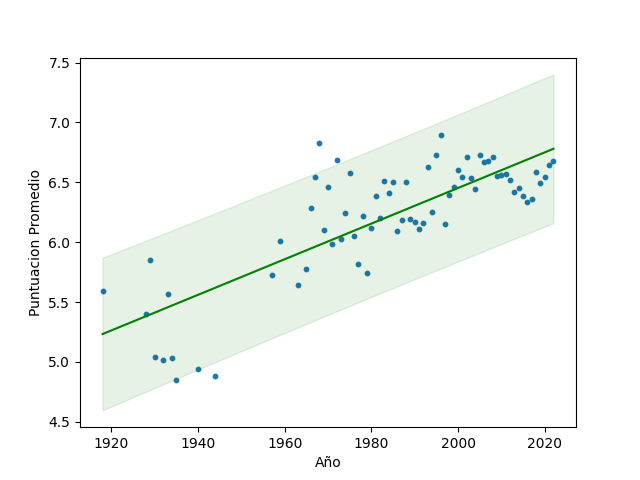
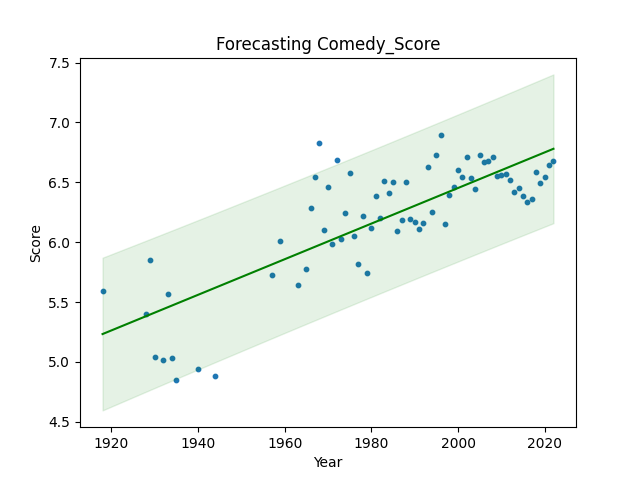
Cambios Adicionales

Changed region(s): [[0.3438, 0.0625, 0.6875, 0.125], [0.0312, 0.3438, 0.0625, 0.6562], [0.5, 0.9375, 0.5312, 0.9688]]

diff --git a/Practica_4.py b/Practica_4.py
@@ -7,6 +7,8 @@ df = pd.read_csv('DataSetClean.csv')
 #Grafica de Bigote, tomando los Puntajes otorgados a cada serie, agrupando por Genero
 sns.boxplot(x="Score", y="Genres", data=df)
 plt.suptitle("Promedio de Puntajes Agrupados por Genero", fontweight="bold")
+fig = plt.gcf()
+fig.set_size_inches(12, 6)
 plt.savefig(f"Graficas_P4/GBigote_Puntajes-Genero.png")
 #plt.show()
 plt.gcf().clear()
@@ -14,6 +16,8 @@ plt.gcf().clear()
 #Grafica de Bigote, tomando los Puntajes otorgados a cada serie, agrupando por Origen de la Serie
 sns.boxplot(x="Score", y="Source", data=df)
 plt.suptitle("Promedio de Puntajes Agrupados por Tipo de Origen", fontweight="bold")
+fig = plt.gcf()
+fig.set_size_inches(12, 6)
 plt.savefig(f"Graficas_P4/GBigote_Puntajes-Origen.png")
 #plt.show()
 plt.gcf().clear()
@@ -21,6 +25,8 @@ plt.gcf().clear()
 #Grafica de Bigote, tomando los Puntajes otorgados a cada serie, agrupando por Tipo de Visualizacion
 sns.boxplot(x="Score", y="Type", data=df)
 plt.suptitle("Promedio de Puntaje Agrupados por Tipo de Visualizacion", fontweight="bold")
+fig = plt.gcf()
+fig.set_size_inches(12, 6)
 plt.savefig(f"Graficas_P4/GBigote_Puntajes-Tipos.png")
 #plt.show()
 plt.gcf().clear()
@@ -31,6 +37,7 @@ df_v = df.groupby('Type')['Members'].sum()
 plot = df_v.plot.pie(y='Type', figsize=(10,10), autopct="%1.0f%%", startangle=140, explode=desfase)
 plt.suptitle("Cantidad de Seguidores Registrados Agrupados por Tipo de Visualizacion", fontweight="bold")
 plt.axis('equal')
+plt.ylabel(' ')
 plt.savefig(f"Graficas_P4/GPastel_Seguidores-Tipos.png")
 #plt.show()
 plt.gcf().clear()
@@ -40,6 +47,8 @@ df_v = df.groupby('Type')['anime_id'].count()
 plot = df_v.plot.pie(y='Type', figsize=(10,10), autopct="%1.0f%%", startangle=100, explode=desfase)
 plt.suptitle("Cantidad de Series Registradas Agrupadas por Tipo de Visualizacion", fontweight="bold")
 plt.axis('equal')
+plt.ylabel(' ')
+
 plt.savefig(f"Graficas_P4/GPastel_Series-Tipos.png")
 #plt.show()
 plt.gcf().clear()
@@ -50,6 +59,8 @@ top = pd.read_csv('DataSetClean.csv').query('Rank <= 100')
 #Grafica de Bigote, tomando los Puntajes otorgados a cada serie, agrupando por Genero
 sns.boxplot(x="Score", y="Genres", data=top)
 plt.suptitle("Promedio de Puntaje Agrupados por Genero (Top-100)", fontweight="bold")
+fig = plt.gcf()
+fig.set_size_inches(12, 6)
 plt.savefig(f"Graficas_P4/GBigote_Puntajes-Generos_Top100.png")
 #plt.show()
 plt.gcf().clear()
@@ -57,6 +68,8 @@ plt.gcf().clear()
 #Grafica de Bigote, tomando los Puntajes otorgados a cada serie, agrupando por Tipo de Visualizacion
 sns.boxplot(x="Score", y="Type", data=top)
 plt.suptitle("Promedio de Puntaje Agrupados por Tipo de Visualizacion (Top-100)", fontweight="bold")
+fig = plt.gcf()
+fig.set_size_inches(12, 6)
 plt.savefig(f"Graficas_P4/GBigote_Puntajes-Tipos_Top100.png")
 #plt.show()
 plt.gcf().clear()
@@ -66,6 +79,7 @@ df_v = top.groupby('Genres')['anime_id'].count()
 plot = df_v.plot.pie(y='Genres', figsize=(10,10), autopct="%1.0f%%", startangle=100)
 plt.suptitle("Cantidad de Series Registradas Agrupadas por Genero (Top-100)", fontweight="bold")
 plt.axis('equal')
+plt.ylabel(' ')
 plt.savefig(f"Graficas_P4/GPastel_Series-Generos_Top100.png")
 #plt.show()
 plt.gcf().clear()
@@ -75,6 +89,7 @@ df_v = top.groupby('Type')['anime_id'].count()
 plot = df_v.plot.pie(y='Type', figsize=(10,10), autopct="%1.0f%%", startangle=100, explode=desfase)
 plt.suptitle("Cantidad de Series Registradas Agrupadas por Tipo de Visualizacion (Top-100)", fontweight="bold")
 plt.axis('equal')
+plt.ylabel(' ')
 plt.savefig(f"Graficas_P4/GPastel_Series-Tipos_Top100.png")
 #plt.show()
 plt.gcf().clear()

diff --git a/Practica_9.py b/Practica_9.py
@@ -9,31 +9,44 @@ import numpy as np
 
 df = pd.read_csv("DataSetClean.csv")
 
-def Forecasting(genre, inter, value, title):
-    cond1 = df["Genres"] ==  genre
-    cond2 = df[inter] > 1917
-    cond3 = df[inter] < 2023
+def Forecasting(genre, tipo, value, title):
+    cond1 = df[tipo] ==  genre
+    cond2 = df["Aired"] > 1917
+    cond3 = df["Aired"] < 2023
     dfGroup = df.where(cond1 & cond2 & cond3)
-    db = dfGroup.groupby(inter).agg({value: "mean"})
+    db = dfGroup.groupby("Aired").agg({value: "mean"})
     db.reset_index(inplace=True)
 
-    model = smf.ols(value + ' ~ ' + inter, db)
+    model = smf.ols(value + ' ~ ' + "Aired", db)
     results = model.fit()
     alpha = .05
     predictions = results.get_prediction(db).summary_frame(alpha)
 
 
-    plt.scatter(db[inter], db[value], s=10)
-    plt.plot(db[inter], predictions['mean'], color='green')
-    plt.fill_between(db[inter], predictions['obs_ci_lower'], predictions['obs_ci_upper'], alpha=.1, color='green')
-    plt.xlabel('Año')
-    plt.ylabel('Puntuacion Promedio')
+    plt.scatter(db["Aired"], db[value], s=10)
+    plt.plot(db["Aired"], predictions['mean'], color='green')
+    plt.fill_between(db["Aired"], predictions['obs_ci_lower'], predictions['obs_ci_upper'], alpha=.1, color='green')
+    plt.xlabel('Year')
+    plt.ylabel(value)
+    plt.title('Forecasting ' + title)
     plt.savefig("Forecasting_P9/"+ title +".png")
-    plt.show()
+    #plt.show()
     plt.close()
     plt.clf()
+#Por Generos 
+Forecasting("Action", "Genres", "Score", "Action_Score")
+Forecasting("Comedy", "Genres", "Score", "Comedy_Score")
+Forecasting("Sports", "Genres", "Episodes", "Sports_Episodes")
 
-Forecasting("Action", "Aired", "Score", "Action_Score")
-Forecasting("Comedy", "Aired", "Score", "Comedy_Score")
-Forecasting("Sports", "Aired", "Episodes", "Sports_Episodes")
+#Por Origen
+Forecasting("Manga", "Source", "Score", "Manga_Score")
+Forecasting("Original", "Source", "Score", "Original_Score")
+Forecasting("Novel", "Source", "Score", "Novel_Score")
 
+#Por Tipo de Visualización 
+Forecasting("TV", "Type", "Episodes", "TV_Episodes")
+Forecasting("TV", "Type", "Members", "TV_Members")
+Forecasting("TV", "Type", "Score", "TV_Score")
+Forecasting("Movie", "Type", "Score", "Movie_Score")
+Forecasting("Movie", "Type", "Members", "Movie_Members")
+Forecasting("OVA", "Type", "Members", "OVA_Members")

diff --git a/Practica_6.py b/Practica_6.py
@@ -18,8 +18,10 @@ def RL_MoviesAdventure():
     plt.xlabel('Puntaje')
     plt.ylabel('Fecha Emision')
     plt.title('Regresión Lineal: Puntaje vs Fecha Emision \n (Peliculas de Aventura)')
+    fig = plt.gcf()
+    fig.set_size_inches(10, 10)
     plt.savefig("RegresionLineal_P6/Movies-Adventure_Fecha-Puntaje.png")
-    plt.show()
+    #plt.show()
     plt.close()
 
 def RL_MangaSports():
@@ -35,8 +37,10 @@ def RL_MangaSports():
     plt.xlabel('Miembros')
     plt.ylabel('Fecha Emision')
     plt.title('Regresión Lineal: Puntajes vs Fecha Emision \n (Series de Deportes basadas en Manga)')
+    fig = plt.gcf()
+    fig.set_size_inches(10, 10)
     plt.savefig("RegresionLineal_P6/Manga-Deportes_Fecha-Puntaje.png")
-    plt.show()
+    #plt.show()
     plt.close()
 
 RL_MoviesAdventure()

diff --git a/Practica_5.py b/Practica_5.py
@@ -98,8 +98,8 @@ def anova_5():
     comprobar_2(resultado3)
 
 #Ejecuciones de los distintos ANOVA's creados (Recomendacion: ejecutar uno a la vez)
-anova_1()
-anova_2()
-anova_3()
+#anova_1()
+#anova_2()
+#anova_3()
 anova_4()
 anova_5()
